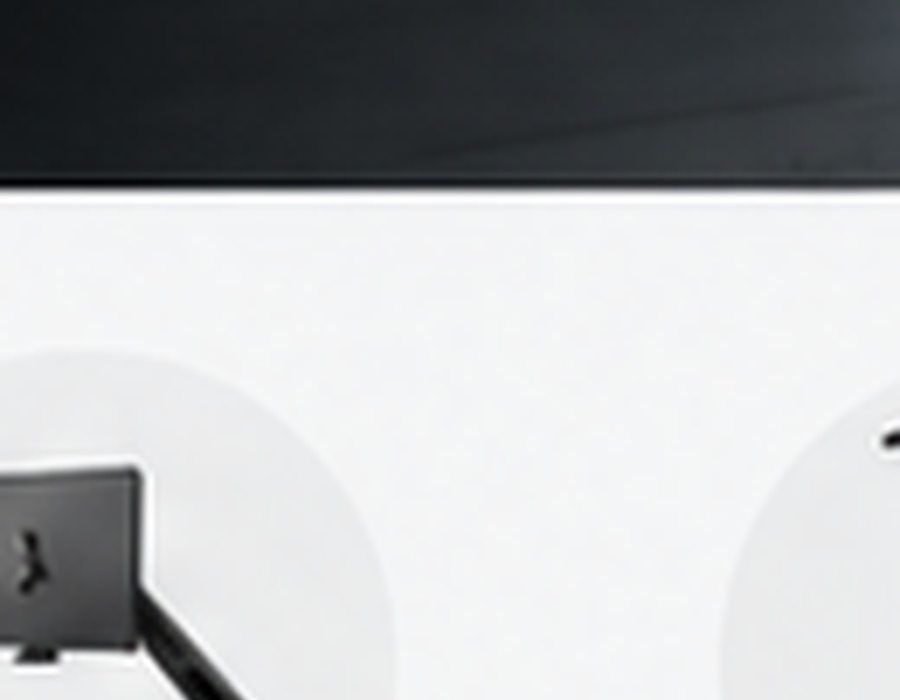
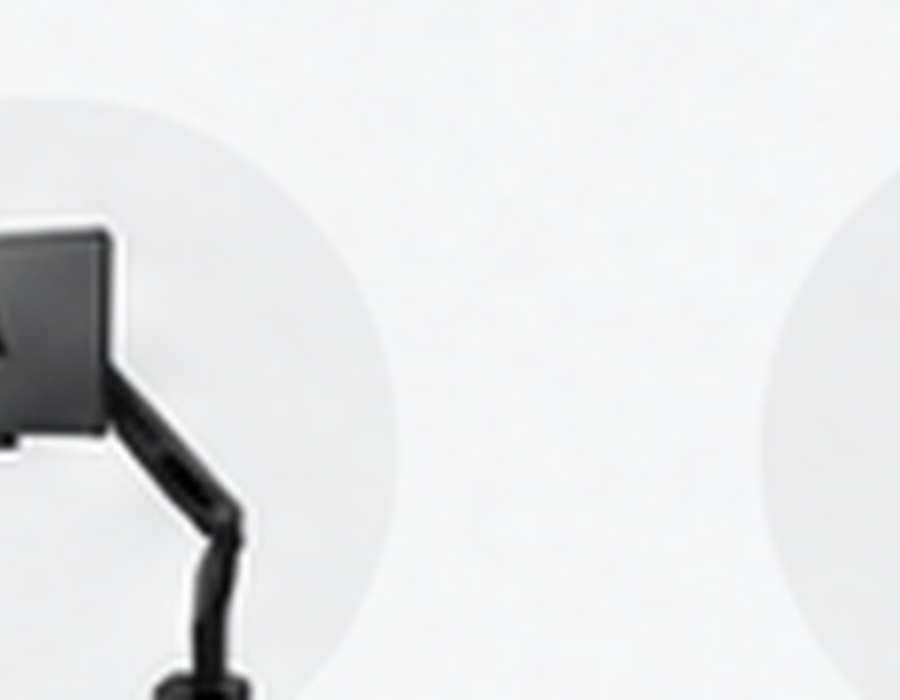
Add files via upload

diff --git a/css/style.css b/css/style.css
@@ -1,1 +1,1 @@
-*{box-sizing:border-box} :root{--ink:#0b0f12;--panel:#12181c;--green:#8cff19;--muted:#66716d;--line:#dce2de}body{margin:0;font-family:Inter,Arial,sans-serif;color:var(--ink);background:#fff}a{text-decoration:none;color:inherit}button,input,select,textarea{font:inherit}.container{width:min(1240px,calc(100% - 36px));margin:auto}.top{background:#080c0f;color:#cdd5d2;font-size:12px;padding:9px}.top .container{display:flex;justify-content:space-between}.top strong,.eyebrow{color:var(--green)}.header{background:#090d10;color:white;border-bottom:1px solid #273035;position:sticky;top:0;z-index:20}.head{height:74px;display:flex;align-items:center;gap:24px}.brand img{width:175px;height:58px;object-fit:contain}.nav{display:flex;gap:18px;flex:1;font-size:13px}.nav a:hover,.nav a.active{color:var(--green)}.search{width:270px}.search input{width:100%;padding:11px 15px;border-radius:22px;background:#192126;border:1px solid #364047;color:white}.actions{display:flex;gap:12px}.icon{background:none;border:0;color:white;cursor:pointer;font-size:18px;position:relative}.count{position:absolute;right:-8px;top:-7px;background:var(--green);color:#071008;border-radius:10px;padding:2px 5px;font-size:10px}.hero{min-height:590px;background:#101417 url('../assets/images/banners/hero-workspace.jpg') center/cover no-repeat;color:white;position:relative}.hero:after{content:'';position:absolute;inset:0;background:linear-gradient(90deg,rgba(5,8,10,.96),rgba(5,8,10,.7) 40%,rgba(5,8,10,.08) 82%)}.hero .container{position:relative;z-index:1}.hero-copy{padding:100px 0 70px;max-width:590px}.hero h1{font-size:clamp(44px,6vw,76px);line-height:.98;margin:12px 0 20px}.hero p{font-size:18px;line-height:1.6;color:#dce3df}.actions-row{display:flex;gap:12px;margin:28px 0}.btn{display:inline-flex;align-items:center;justify-content:center;gap:8px;padding:12px 18px;border:1px solid #cbd4cf;background:white;border-radius:8px;font-weight:800;cursor:pointer}.btn.primary{background:var(--green);border-color:var(--green)}.btn.dark{background:#101418;border-color:#667077;color:#fff}.benefits{display:flex;gap:25px;margin-top:42px}.benefit b{display:block}.benefit span{color:#b8c2bf;font-size:12px}.section{padding:68px 0}.section.dark{background:#0d1215;color:white}.section-head{display:flex;justify-content:space-between;align-items:end;margin-bottom:25px}.section-head h2{font-size:34px;margin:5px 0}.eyebrow{text-transform:uppercase;letter-spacing:.17em;font-size:11px;font-weight:900}.categories{display:grid;grid-template-columns:repeat(8,1fr);gap:12px}.cat{border:1px solid var(--line);border-radius:12px;overflow:hidden;text-align:center;background:white}.cat:hover{transform:translateY(-3px)}.cat img{width:100%;aspect-ratio:1;object-fit:cover;display:block}.cat strong{display:block;padding:10px 5px 2px}.cat small{display:block;color:var(--muted);padding-bottom:12px}.grid{display:grid;grid-template-columns:repeat(4,1fr);gap:18px}.product{border:1px solid var(--line);border-radius:14px;overflow:hidden;background:white}.pimg{height:250px;background:#f5f7f5;position:relative}.pimg img{width:100%;height:100%;object-fit:contain}.heart{position:absolute;right:12px;top:12px;border:1px solid #d2dad6;background:white;width:38px;height:38px;border-radius:50%;cursor:pointer}.badge{position:absolute;left:12px;top:12px;background:var(--green);padding:6px 9px;border-radius:14px;font-size:11px;font-weight:900}.pbody{padding:16px}.pbody .category{font-size:11px;letter-spacing:.12em;color:#77817e;text-transform:uppercase}.pbody h3{margin:8px 0;font-size:18px}.rating{color:#eaa400;font-size:13px}.price{font-size:21px;font-weight:900;margin:8px 0}.pbody p{font-size:13px;color:var(--muted);line-height:1.5;min-height:40px}.feature-grid,.tools{display:grid;grid-template-columns:repeat(3,1fr);gap:16px}.feature{height:285px;border-radius:16px;background:#11181c;position:relative;overflow:hidden;color:white;border:1px solid #29343a}.feature:after{display:none}.feature-copy{position:relative;z-index:1;padding:28px;max-width:390px}.feature h3{font-size:28px;margin:7px 0}.builder{display:grid;grid-template-columns:1fr 1fr;border-radius:18px;overflow:hidden;background:#11181c}.builder-photo{min-height:390px;background:linear-gradient(135deg,#182126,#0d1215 60%,#8cff19 180%)}.builder-copy{padding:48px;color:white}.builder-copy h2{font-size:40px;margin:8px 0}.muted{color:var(--muted)}.builder-list{display:grid;grid-template-columns:1fr 1fr;gap:9px;margin:24px 0}.builder-list span{border:1px solid #344047;padding:10px;border-radius:7px}.page-hero{background:#0d1215;color:white;padding:72px 0}.page-hero h1{font-size:54px;margin:8px 0}.toolbar{display:flex;gap:10px;margin-bottom:25px}.toolbar input,.toolbar select{padding:12px;border:1px solid var(--line);border-radius:8px}.toolbar input{flex:1}.footer{background:#080d10;color:#b9c4c0;padding:55px 0 20px}.footer-grid{width:min(1240px,calc(100% - 36px));margin:auto;display:grid;grid-template-columns:2fr 1fr 1fr 1.4fr;gap:35px}.footer h4{color:white}.footer a{display:block;margin:8px 0}.footer-bottom{width:min(1240px,calc(100% - 36px));margin:35px auto 0;border-top:1px solid #273136;padding-top:17px;font-size:12px}.drawer{position:fixed;right:-430px;top:0;width:min(430px,92vw);height:100%;background:white;z-index:80;padding:24px;box-shadow:-20px 0 60px #0003;transition:.25s;overflow:auto}.drawer.open{right:0}.overlay{display:none;position:fixed;inset:0;background:#0007;z-index:70}.overlay.show{display:block}.cart-row{display:grid;grid-template-columns:60px 1fr auto;gap:10px;border-bottom:1px solid var(--line);padding:12px 0}.cart-row img{width:60px;height:50px;object-fit:contain;background:#f5f6f5}.toast{position:fixed;right:20px;bottom:20px;background:#101417;color:white;padding:13px 17px;border-radius:8px;z-index:100;opacity:0;transform:translateY(20px);transition:.2s}.toast.show{opacity:1;transform:none}.form{display:grid;gap:12px;max-width:650px}.form input,.form textarea{padding:12px;border:1px solid var(--line);border-radius:8px}.form textarea{min-height:150px}.info-grid{display:grid;grid-template-columns:repeat(3,1fr);gap:16px}.info{border:1px solid var(--line);border-radius:14px;padding:24px}.detail{display:grid;grid-template-columns:1.1fr .9fr;gap:45px}.detail-photo{background:#f5f7f5;border-radius:18px;min-height:570px}.detail-photo img{width:100%;height:100%;object-fit:contain}.chips{display:flex;gap:8px;flex-wrap:wrap;margin:20px 0}.chip{background:#eef2ef;padding:8px 10px;border-radius:20px;font-size:12px}@media(max-width:1050px){.nav{display:none}.categories{grid-template-columns:repeat(4,1fr)}.grid{grid-template-columns:repeat(3,1fr)}.builder,.detail{grid-template-columns:1fr}.feature-grid,.tools{grid-template-columns:1fr}.footer-grid{grid-template-columns:1fr 1fr}}@media(max-width:650px){.search{display:none}.hero-copy{padding:70px 0 45px}.benefits{display:grid;grid-template-columns:1fr 1fr}.categories{grid-template-columns:repeat(2,1fr)}.grid{grid-template-columns:1fr 1fr}.footer-grid,.info-grid{grid-template-columns:1fr}.section{padding:48px 0}.toolbar{flex-direction:column}}@media(max-width:450px){.grid{grid-template-columns:1fr}.brand img{width:140px}.hero h1{font-size:45px}}
+*{box-sizing:border-box} :root{--ink:#0b0f12;--panel:#12181c;--green:#8cff19;--muted:#66716d;--line:#dce2de}body{margin:0;font-family:Inter,Arial,sans-serif;color:var(--ink);background:#fff}a{text-decoration:none;color:inherit}button,input,select,textarea{font:inherit}.container{width:min(1240px,calc(100% - 36px));margin:auto}.top{background:#080c0f;color:#cdd5d2;font-size:12px;padding:9px}.top .container{display:flex;justify-content:space-between}.top strong,.eyebrow{color:var(--green)}.header{background:#090d10;color:white;border-bottom:1px solid #273035;position:sticky;top:0;z-index:20}.head{height:74px;display:flex;align-items:center;gap:24px}.brand img{width:175px;height:58px;object-fit:contain}.nav{display:flex;gap:18px;flex:1;font-size:13px}.nav a:hover,.nav a.active{color:var(--green)}.search{width:270px}.search input{width:100%;padding:11px 15px;border-radius:22px;background:#192126;border:1px solid #364047;color:white}.actions{display:flex;gap:12px}.icon{background:none;border:0;color:white;cursor:pointer;font-size:18px;position:relative}.count{position:absolute;right:-8px;top:-7px;background:var(--green);color:#071008;border-radius:10px;padding:2px 5px;font-size:10px}.hero{min-height:590px;background:#101417 url('../assets/images/banners/hero-workspace.jpg') center/cover no-repeat;color:white;position:relative}.hero:after{content:'';position:absolute;inset:0;background:linear-gradient(90deg,rgba(5,8,10,.96),rgba(5,8,10,.7) 40%,rgba(5,8,10,.08) 82%)}.hero .container{position:relative;z-index:1}.hero-copy{padding:100px 0 70px;max-width:590px}.hero h1{font-size:clamp(44px,6vw,76px);line-height:.98;margin:12px 0 20px}.hero p{font-size:18px;line-height:1.6;color:#dce3df}.actions-row{display:flex;gap:12px;margin:28px 0}.btn{display:inline-flex;align-items:center;justify-content:center;gap:8px;padding:12px 18px;border:1px solid #cbd4cf;background:white;border-radius:8px;font-weight:800;cursor:pointer}.btn.primary{background:var(--green);border-color:var(--green)}.btn.dark{background:#101418;border-color:#667077;color:#fff}.benefits{display:flex;gap:25px;margin-top:42px}.benefit b{display:block}.benefit span{color:#b8c2bf;font-size:12px}.section{padding:68px 0}.section.dark{background:#0d1215;color:white}.section-head{display:flex;justify-content:space-between;align-items:end;margin-bottom:25px}.section-head h2{font-size:34px;margin:5px 0}.eyebrow{text-transform:uppercase;letter-spacing:.17em;font-size:11px;font-weight:900}.categories{display:grid;grid-template-columns:repeat(8,1fr);gap:12px}.cat{border:1px solid var(--line);border-radius:12px;overflow:hidden;text-align:center;background:white}.cat:hover{transform:translateY(-3px)}.cat img{width:100%;aspect-ratio:1;object-fit:contain;display:block;background:#f7f8f7}.cat strong{display:block;padding:10px 5px 2px}.cat small{display:block;color:var(--muted);padding-bottom:12px}.grid{display:grid;grid-template-columns:repeat(4,1fr);gap:18px}.product{border:1px solid var(--line);border-radius:14px;overflow:hidden;background:white}.pimg{height:250px;background:#f7f8f7;position:relative;overflow:hidden}.pimg img{width:100%;height:100%;object-fit:contain;display:block}.heart{position:absolute;right:12px;top:12px;border:1px solid #d2dad6;background:white;width:38px;height:38px;border-radius:50%;cursor:pointer}.badge{position:absolute;left:12px;top:12px;background:var(--green);padding:6px 9px;border-radius:14px;font-size:11px;font-weight:900}.pbody{padding:16px}.pbody .category{font-size:11px;letter-spacing:.12em;color:#77817e;text-transform:uppercase}.pbody h3{margin:8px 0;font-size:18px}.rating{color:#eaa400;font-size:13px}.price{font-size:21px;font-weight:900;margin:8px 0}.pbody p{font-size:13px;color:var(--muted);line-height:1.5;min-height:40px}.feature-grid,.tools{display:grid;grid-template-columns:repeat(3,1fr);gap:16px}.feature{height:285px;border-radius:16px;background:#11181c;position:relative;overflow:hidden;color:white;border:1px solid #29343a}.feature:after{display:none}.feature-copy{position:relative;z-index:1;padding:28px;max-width:390px}.feature h3{font-size:28px;margin:7px 0}.builder{display:grid;grid-template-columns:1fr 1fr;border-radius:18px;overflow:hidden;background:#11181c}.builder-photo{min-height:390px;background:linear-gradient(135deg,#182126,#0d1215 60%,#8cff19 180%)}.builder-copy{padding:48px;color:white}.builder-copy h2{font-size:40px;margin:8px 0}.muted{color:var(--muted)}.builder-list{display:grid;grid-template-columns:1fr 1fr;gap:9px;margin:24px 0}.builder-list span{border:1px solid #344047;padding:10px;border-radius:7px}.page-hero{background:#0d1215;color:white;padding:72px 0}.page-hero h1{font-size:54px;margin:8px 0}.toolbar{display:flex;gap:10px;margin-bottom:25px}.toolbar input,.toolbar select{padding:12px;border:1px solid var(--line);border-radius:8px}.toolbar input{flex:1}.footer{background:#080d10;color:#b9c4c0;padding:55px 0 20px}.footer-grid{width:min(1240px,calc(100% - 36px));margin:auto;display:grid;grid-template-columns:2fr 1fr 1fr 1.4fr;gap:35px}.footer h4{color:white}.footer a{display:block;margin:8px 0}.footer-bottom{width:min(1240px,calc(100% - 36px));margin:35px auto 0;border-top:1px solid #273136;padding-top:17px;font-size:12px}.drawer{position:fixed;right:-430px;top:0;width:min(430px,92vw);height:100%;background:white;z-index:80;padding:24px;box-shadow:-20px 0 60px #0003;transition:.25s;overflow:auto}.drawer.open{right:0}.overlay{display:none;position:fixed;inset:0;background:#0007;z-index:70}.overlay.show{display:block}.cart-row{display:grid;grid-template-columns:60px 1fr auto;gap:10px;border-bottom:1px solid var(--line);padding:12px 0}.cart-row img{width:60px;height:50px;object-fit:contain;background:#f5f6f5}.toast{position:fixed;right:20px;bottom:20px;background:#101417;color:white;padding:13px 17px;border-radius:8px;z-index:100;opacity:0;transform:translateY(20px);transition:.2s}.toast.show{opacity:1;transform:none}.form{display:grid;gap:12px;max-width:650px}.form input,.form textarea{padding:12px;border:1px solid var(--line);border-radius:8px}.form textarea{min-height:150px}.info-grid{display:grid;grid-template-columns:repeat(3,1fr);gap:16px}.info{border:1px solid var(--line);border-radius:14px;padding:24px}.detail{display:grid;grid-template-columns:1.1fr .9fr;gap:45px}.detail-photo{background:#f5f7f5;border-radius:18px;min-height:570px}.detail-photo img{width:100%;height:100%;object-fit:contain}.chips{display:flex;gap:8px;flex-wrap:wrap;margin:20px 0}.chip{background:#eef2ef;padding:8px 10px;border-radius:20px;font-size:12px}@media(max-width:1050px){.nav{display:none}.categories{grid-template-columns:repeat(4,1fr)}.grid{grid-template-columns:repeat(3,1fr)}.builder,.detail{grid-template-columns:1fr}.feature-grid,.tools{grid-template-columns:1fr}.footer-grid{grid-template-columns:1fr 1fr}}@media(max-width:650px){.search{display:none}.hero-copy{padding:70px 0 45px}.benefits{display:grid;grid-template-columns:1fr 1fr}.categories{grid-template-columns:repeat(2,1fr)}.grid{grid-template-columns:1fr 1fr}.footer-grid,.info-grid{grid-template-columns:1fr}.section{padding:48px 0}.toolbar{flex-direction:column}}@media(max-width:450px){.grid{grid-template-columns:1fr}.brand img{width:140px}.hero h1{font-size:45px}}

diff --git a/js/product-app.js b/js/product-app.js
@@ -1,7 +1,7 @@
 let catalog=[],cart=JSON.parse(localStorage.getItem('novaCart')||'[]'),wish=JSON.parse(localStorage.getItem('novaWish')||'[]');
 const money=n=>new Intl.NumberFormat('en-US',{style:'currency',currency:'USD'}).format(n);
 async function init(){catalog=await (await fetch('../data/catalog.json')).json();render();counts();const q=new URLSearchParams(location.search).get('q');if(q&&document.querySelector('#catalog-search')){document.querySelector('#catalog-search').value=q;filterProducts()}}
-function render(list=catalog){const el=document.querySelector('#product-grid');if(!el)return;el.innerHTML=list.map((p,i)=>`<article class="product"><div class="pimg"><span class="badge">${i<3?'Featured':'Popular'}</span><button class="heart" onclick="toggleWish('${p.slug}',this)">${wish.includes(p.slug)?'♥':'♡'}</button><img src="../assets/images/products/${p.image}" alt="${p.name}"></div><div class="pbody"><span class="category">${p.category}</span><h3>${p.name}</h3><div class="rating">★★★★★ <span class="muted">(${p.reviews})</span></div><div class="price">${money(p.price)}</div><p>${p.description}</p><a class="btn" href="products/${p.slug}.html">View product</a></div></article>`).join('')}
+function render(list=catalog){const el=document.querySelector('#product-grid');if(!el)return;el.innerHTML=list.map((p,i)=>`<article class="product"><div class="pimg"><button class="heart" onclick="toggleWish('${p.slug}',this)">${wish.includes(p.slug)?'♥':'♡'}</button><img src="../assets/images/products/${p.image}" alt="${p.name}"></div><div class="pbody"><span class="category">${p.category}</span><h3>${p.name}</h3><div class="rating">★★★★★ <span class="muted">(${p.reviews})</span></div><div class="price">${money(p.price)}</div><p>${p.description}</p><a class="btn" href="products/${p.slug}.html">View product</a></div></article>`).join('')}
 function filterProducts(){let q=(document.querySelector('#catalog-search')?.value||'').toLowerCase(),c=document.querySelector('#catalog-category')?.value||'',s=document.querySelector('#catalog-sort')?.value||'';let a=catalog.filter(p=>(!q||(p.name+p.category+p.description).toLowerCase().includes(q))&&(!c||p.category===c));if(s==='low')a.sort((x,y)=>x.price-y.price);if(s==='high')a.sort((x,y)=>y.price-x.price);if(s==='rating')a.sort((x,y)=>y.rating-x.rating);render(a)}
 function toggleWish(slug,b){wish=wish.includes(slug)?wish.filter(x=>x!==slug):[...wish,slug];localStorage.setItem('novaWish',JSON.stringify(wish));if(b)b.textContent=wish.includes(slug)?'♥':'♡';counts();toast(wish.includes(slug)?'Added to wishlist':'Removed from wishlist')}
 function addToCart(slug){let x=cart.find(a=>a.slug===slug);x?x.qty++:cart.push({slug,qty:1});localStorage.setItem('novaCart',JSON.stringify(cart));counts();toast('Added to cart')}

diff --git a/CHANGELOG.md b/CHANGELOG.md
@@ -1,10 +1,9 @@
 # NOVA DESK Changelog
 
-## V2
-- Reworked image assets to remove baked-in text and interface elements.
-- Product photographs are tightly cropped to the product-only area.
-- Category photographs are cropped above their labels.
-- Promotional panels no longer depend on banner photographs containing text.
-- All product imagery remains local and deterministic.
-- Removed product-card badges from the interface for a cleaner presentation.
-- Kept search, filters, wishlist, cart, builder, finder, product pages and support.
+## V3 — Image Cleanup
+- Corrected the vertical crop of every product image.
+- Removed the "Featured Products" heading from product photographs.
+- Removed embedded wishlist hearts from product photographs.
+- Corrected category crops to remove the dark strip and category names.
+- Kept all interface text outside the image files.
+- All image references remain local and deterministic.

diff --git a/docs/IMAGE-POLICY.md b/docs/IMAGE-POLICY.md
@@ -1,15 +1,17 @@
-# Image Policy — V2
+# Image Policy — V3
 
-Every product/category photograph is locally stored and mapped explicitly.
+Images are photography/visual assets only.
 
-### Forbidden inside photographs
-- Product names
-- Prices
-- Ratings/stars
-- Buttons
-- Hearts
-- Badges
-- Website UI
-- Promotional copy
+They contain no:
+- product names
+- prices
+- ratings
+- stars
+- hearts
+- buttons
+- badges
+- navigation
+- headings
+- promotional copy
 
-V2 removes the previous promotional banner photographs because those source images contained baked-in text. Promotional messaging is now rendered as HTML/CSS outside photography.
+All of those elements are HTML/CSS in the website UI.
